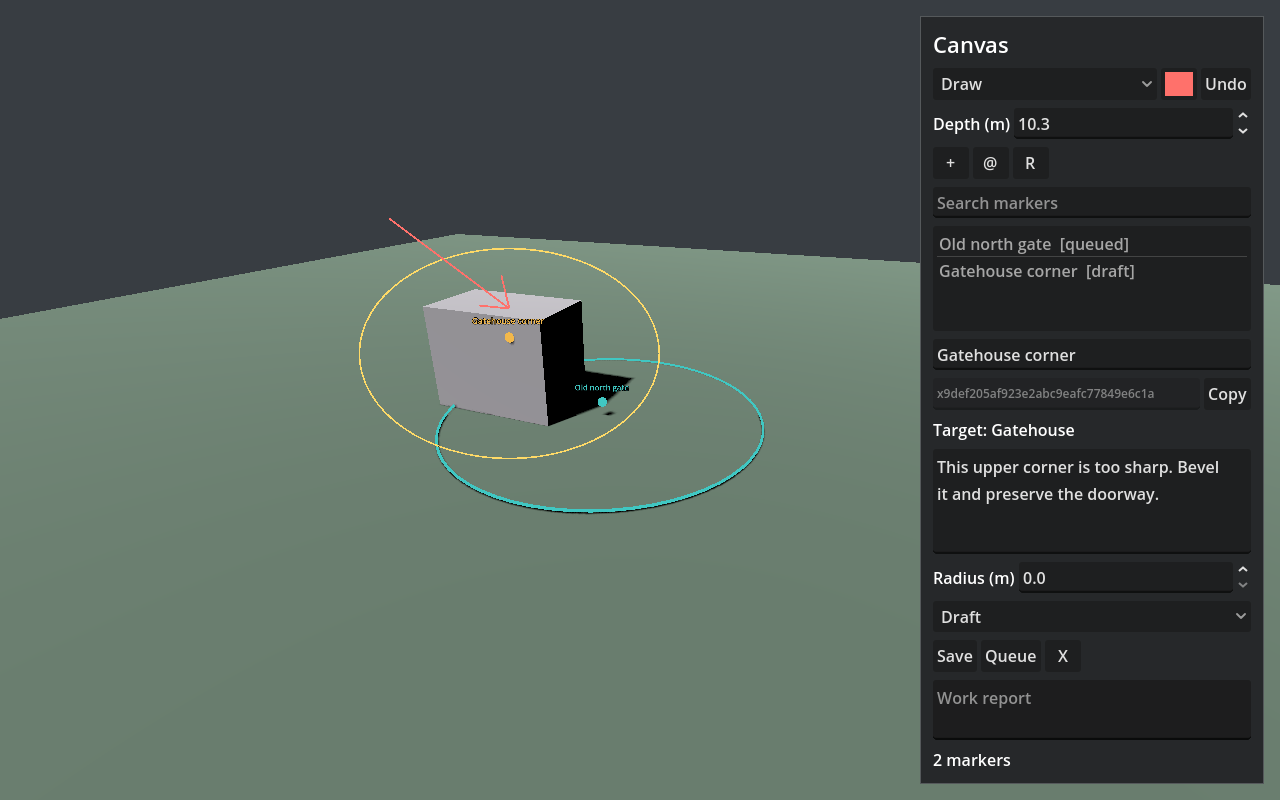
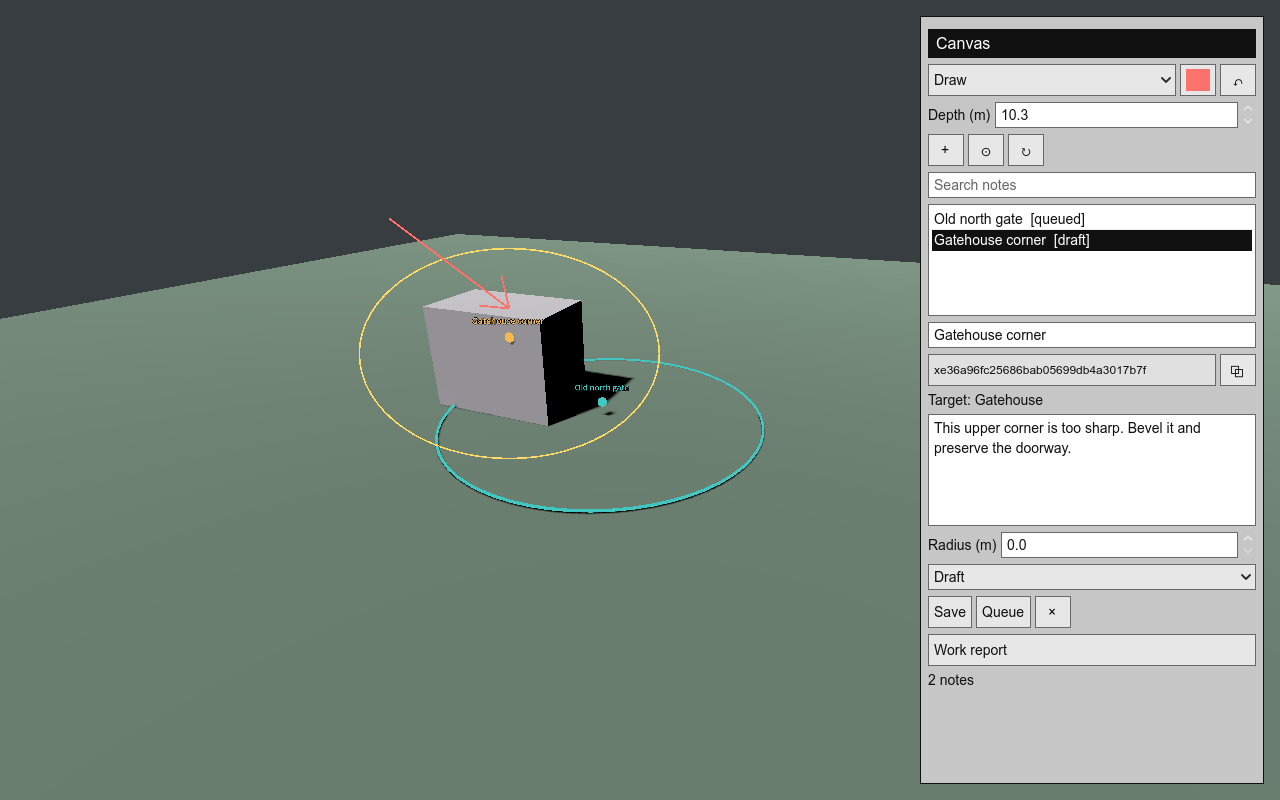
Refine Canvas with a flat Macintosh and NeXT inspired interface

Changed region(s): [[0.7188, 0.0, 1.0, 1.0]]

diff --git a/tools/package_release.py b/tools/package_release.py
@@ -1,13 +1,17 @@
 """Package only versioned Canvas sources and the Godot addon."""
 from pathlib import Path
+import configparser
 import subprocess
 import zipfile
 
 root = Path(__file__).resolve().parents[1]
+config = configparser.ConfigParser()
+config.read(root / "addons/canvas/plugin.cfg", encoding="utf-8")
+version = config["plugin"]["version"].strip('"')
 output = root / "dist"
 output.mkdir(exist_ok=True)
 files = subprocess.check_output(["git", "ls-files", "-z"], cwd=root).decode().split("\0")
-for name, addon_only in [("canvas-godot-v0.2.0.zip", True), ("canvas-framework-v0.2.0.zip", False)]:
+for name, addon_only in [(f"canvas-godot-v{version}.zip", True), (f"canvas-framework-v{version}.zip", False)]:
     with zipfile.ZipFile(output / name, "w", zipfile.ZIP_DEFLATED) as archive:
         for relative in files:
             if not relative or not (root / relative).is_file(): continue

diff --git a/docs/RELEASE-v0.2.1.md b/docs/RELEASE-v0.2.1.md
@@ -1,0 +1,16 @@
+# A Quieter Canvas
+
+Canvas now has a flat, early Macintosh/NeXT-inspired interface: a black title
+bar, light-gray controls, white note fields, square borders, and compact type.
+There are no gradients. Toolbar symbols have tooltips, selected notes are
+highlighted, and work reports can collapse out of the way.
+
+The overlay scrolls on shorter windows. Drawing and persistence tests passed
+with real rendered captures at 1280x800 and 1024x600; Python tests also passed.
+
+Download the Godot zip for the addon, or the framework zip for the protocol,
+CLI, demo, tests, and AI integration guide. This update does not add other
+engine adapters or live AI scene construction. The worker's local Windows
+sandbox limitation described in 0.2.0 remains.
+
+Created by [born-lucky](https://github.com/born-lucky). MIT licensed.

diff --git a/CHANGELOG.md b/CHANGELOG.md
@@ -1,5 +1,13 @@
 # Changelog
 
+## 0.2.1
+
+- Early Macintosh/NeXT-inspired flat monochrome interface, black title bar,
+  white editing surfaces, compact typography, and crisp square borders.
+- Recognizable toolbar symbols with tooltips, readable note IDs, and selected-note highlighting.
+- Collapsible work reports and scrolling for shorter windows.
+- Rendered drawing tests exercised at 1280x800 and 1024x600.
+
 ## 0.2.0
 
 - Mouse-drawn 3D annotations on a camera-facing plane or collision surfaces.
